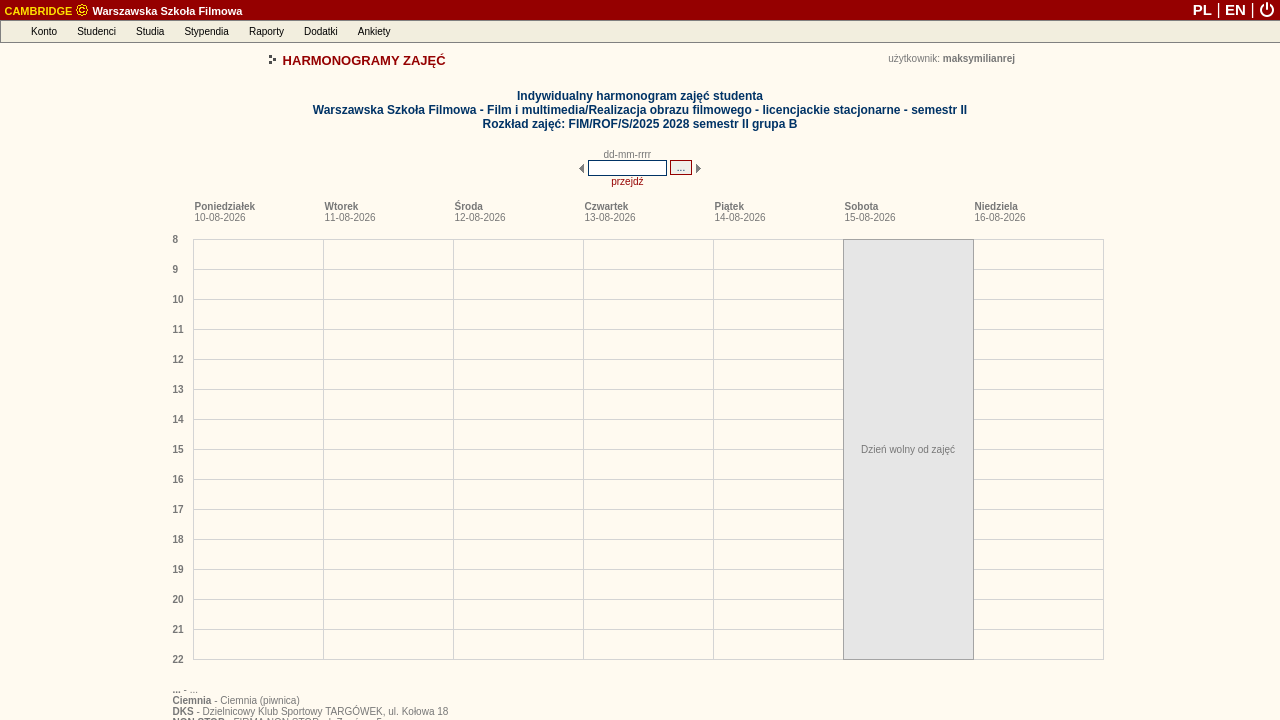
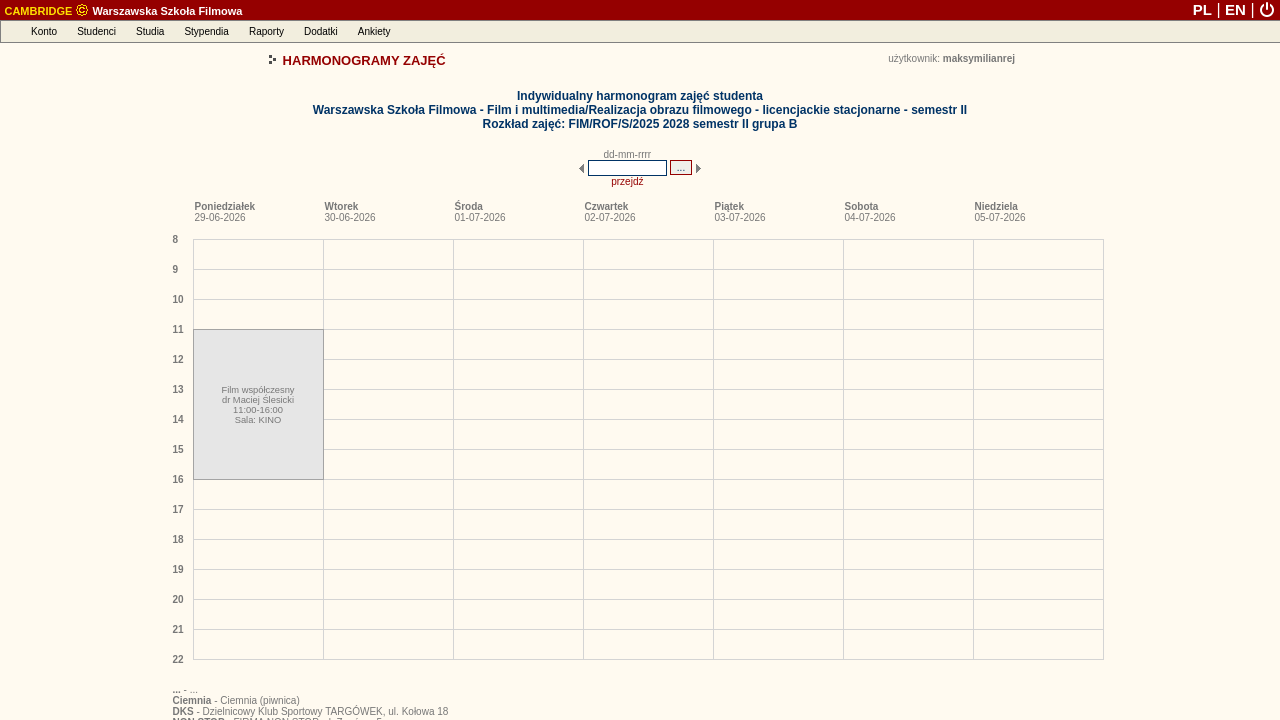
deploy: 20767e2667a06bb4135101eddfaa63d366c8849d

Changed region(s): [[0.6562, 0.3056, 0.7812, 0.9167], [0.125, 0.4583, 0.25, 0.6722]]

diff --git a/debug_harmonogram_page.html b/debug_harmonogram_page.html
@@ -163,8 +163,8 @@
 
 
 
-<link rel="stylesheet" type="text/css" href="/palio/html.run?_Instance=cambridge&amp;_PageID=4&amp;_SessionID=1701403&amp;_SessionKey=523918756&amp;ZoomView=&amp;DisplayMode=&amp;_CheckSum=764109514">
-<script language="javascript" type="text/javascript" src="/palio/html.run?_Instance=cambridge&amp;_PageID=5&amp;_SessionID=1701403&amp;_SessionKey=523918756&amp;_CheckSum=-526602080"></script>
+<link rel="stylesheet" type="text/css" href="/palio/html.run?_Instance=cambridge&amp;_PageID=4&amp;_SessionID=1701550&amp;_SessionKey=1424655760&amp;ZoomView=&amp;DisplayMode=&amp;_CheckSum=941650087">
+<script language="javascript" type="text/javascript" src="/palio/html.run?_Instance=cambridge&amp;_PageID=5&amp;_SessionID=1701550&amp;_SessionKey=1424655760&amp;_CheckSum=751974529"></script>
 
 
 
@@ -354,9 +354,9 @@ CambridgeMenuBar = new jsDOMenuBar("absolute", true)
 
 AccountMenu=new jsDOMenu(200, "", "absolute", false);
 
-AccountMenu.addMenuItem(new menuItem("Zmiana hasła", "", "/palio/html.run?_Instance=cambridge&amp;_PageID=11&amp;_SessionID=1701403&amp;_SessionKey=523918756&amp;_CheckSum=-2123717361"));
+AccountMenu.addMenuItem(new menuItem("Zmiana hasła", "", "/palio/html.run?_Instance=cambridge&amp;_PageID=11&amp;_SessionID=1701550&amp;_SessionKey=1424655760&amp;_CheckSum=-1513958926"));
 
-  AccountMenu.addMenuItem(new menuItem("Komunikator", "", "/palio/html.run?_Instance=cambridge&amp;_PageID=180&amp;_SessionID=1701403&amp;_SessionKey=523918756&amp;_CheckSum=-487115820"));
+  AccountMenu.addMenuItem(new menuItem("Komunikator", "", "/palio/html.run?_Instance=cambridge&amp;_PageID=180&amp;_SessionID=1701550&amp;_SessionKey=1424655760&amp;_CheckSum=1976048589"));
 
 
 
@@ -369,7 +369,7 @@ AccountMenu.addMenuItem(new menuItem("Yammer", "", "https://www.yammer.com/onlin
 
 AccountMenu.addMenuItem(new menuItem("-"));
 
-AccountMenu.addMenuItem(new menuItem("Wylogowanie", "", "https://student.szkolafilmowa.pl/palio/html.run?_Instance=cambridge&amp;_PageID=10012&amp;_Action=Logout&amp;_SessionID=1701403&amp;_SessionKey=523918756"));
+AccountMenu.addMenuItem(new menuItem("Wylogowanie", "", "https://student.szkolafilmowa.pl/palio/html.run?_Instance=cambridge&amp;_PageID=10012&amp;_Action=Logout&amp;_SessionID=1701550&amp;_SessionKey=1424655760"));
 
 CambridgeMenuBar.addMenuBarItem(new menuBarItem("Konto", AccountMenu));
 
@@ -382,12 +382,12 @@ StudentsMenu=new jsDOMenu(320, "", "absolute", false);
 
 
 
-StudentsMenu.addMenuItem(new menuItem("Moje dane", "", "/palio/html.run?_Instance=cambridge&amp;_PageID=185&amp;_SessionID=1701403&amp;_SessionKey=523918756&amp;_CheckSum=-1629789991"));
+StudentsMenu.addMenuItem(new menuItem("Moje dane", "", "/palio/html.run?_Instance=cambridge&amp;_PageID=185&amp;_SessionID=1701550&amp;_SessionKey=1424655760&amp;_CheckSum=912887656"));
 
 
 
 
-StudentsMenu.addMenuItem(new menuItem("Moje indeksy", "", "/palio/html.run?_Instance=cambridge&amp;_PageID=186&amp;_SessionID=1701403&amp;_SessionKey=523918756&amp;_CheckSum=-999331366"));
+StudentsMenu.addMenuItem(new menuItem("Moje indeksy", "", "/palio/html.run?_Instance=cambridge&amp;_PageID=186&amp;_SessionID=1701550&amp;_SessionKey=1424655760&amp;_CheckSum=-1017731449"));
 
 
 
@@ -426,7 +426,7 @@ StudiesMenu=new jsDOMenu(250, "", "absolute", false);
 
 
 
-StudiesMenu.addMenuItem(new menuItem("Moje plany studiów", "", "/palio/html.run?_Instance=cambridge&amp;_PageID=258&amp;_SessionID=1701403&amp;_SessionKey=523918756&amp;_CheckSum=2038825792"));
+StudiesMenu.addMenuItem(new menuItem("Moje plany studiów", "", "/palio/html.run?_Instance=cambridge&amp;_PageID=258&amp;_SessionID=1701550&amp;_SessionKey=1424655760&amp;_CheckSum=-1324140063"));
 
 
 
@@ -434,13 +434,13 @@ StudiesMenu.addMenuItem(new menuItem("Moje plany studiów", "", "/palio/html.run
 
 
 
-StudiesMenu.addMenuItem(new menuItem("Harmonogramy zajęć", "", "/palio/html.run?_Instance=cambridge&amp;_PageID=95&amp;_SessionID=1701403&amp;_SessionKey=523918756&amp;_CheckSum=2133033483"));
+StudiesMenu.addMenuItem(new menuItem("Harmonogramy zajęć", "", "/palio/html.run?_Instance=cambridge&amp;_PageID=95&amp;_SessionID=1701550&amp;_SessionKey=1424655760&amp;_CheckSum=1596298358"));
 
-StudiesMenu.addMenuItem(new menuItem("Harmonogramy moich zajęć", "", "/palio/html.run?_Instance=cambridge&amp;_PageID=191&amp;_SessionID=1701403&amp;_SessionKey=523918756&amp;_CheckSum=-1787276300"));
+StudiesMenu.addMenuItem(new menuItem("Harmonogramy moich zajęć", "", "/palio/html.run?_Instance=cambridge&amp;_PageID=191&amp;_SessionID=1701550&amp;_SessionKey=1424655760&amp;_CheckSum=325779373"));
 
-StudiesMenu.addMenuItem(new menuItem("Harmonogramy innych zajęć", "", "/palio/html.run?_Instance=cambridge&amp;_PageID=248&amp;_SessionID=1701403&amp;_SessionKey=523918756&amp;_CheckSum=-325522399"));
+StudiesMenu.addMenuItem(new menuItem("Harmonogramy innych zajęć", "", "/palio/html.run?_Instance=cambridge&amp;_PageID=248&amp;_SessionID=1701550&amp;_SessionKey=1424655760&amp;_CheckSum=-1604489952"));
 
-StudiesMenu.addMenuItem(new menuItem("Harmonogramy zajętości sal", "", "/palio/html.run?_Instance=cambridge&amp;_PageID=269&amp;_SessionID=1701403&amp;_SessionKey=523918756&amp;_CheckSum=738665312"));
+StudiesMenu.addMenuItem(new menuItem("Harmonogramy zajętości sal", "", "/palio/html.run?_Instance=cambridge&amp;_PageID=269&amp;_SessionID=1701550&amp;_SessionKey=1424655760&amp;_CheckSum=1320558017"));
 
 
 
@@ -470,9 +470,9 @@ CambridgeMenuBar.addMenuBarItem(new menuBarItem("Studia", StudiesMenu));
 ScholarshipsMenu=new jsDOMenu(230, "", "absolute", false);
 
 
-ScholarshipsMenu.addMenuItem(new menuItem("Moje stypendia", "", "/palio/html.run?_Instance=cambridge&amp;_PageID=187&amp;_SessionID=1701403&amp;_SessionKey=523918756&amp;_CheckSum=-368872741"));
+ScholarshipsMenu.addMenuItem(new menuItem("Moje stypendia", "", "/palio/html.run?_Instance=cambridge&amp;_PageID=187&amp;_SessionID=1701550&amp;_SessionKey=1424655760&amp;_CheckSum=1346616742"));
 
-ScholarshipsMenu.addMenuItem(new menuItem("Mój numer rachunku", "", "/palio/html.run?_Instance=cambridge&amp;_PageID=380&amp;_SessionID=1701403&amp;_SessionKey=523918756&amp;_CheckSum=73583958"));
+ScholarshipsMenu.addMenuItem(new menuItem("Mój numer rachunku", "", "/palio/html.run?_Instance=cambridge&amp;_PageID=380&amp;_SessionID=1701550&amp;_SessionKey=1424655760&amp;_CheckSum=-2117094773"));
 
 
 
@@ -482,9 +482,9 @@ ScholarshipsMenu.addMenuItem(new menuItem("Mój numer rachunku", "", "/palio/htm
 ScholarshipsMenu.addMenuItem(new menuItem("-"));
 
 
-ScholarshipsMenu.addMenuItem(new menuItem("Fundusze stypendialne", "", "/palio/html.run?_Instance=cambridge&amp;_PageID=54&amp;_SessionID=1701403&amp;_SessionKey=523918756&amp;_CheckSum=635116686"));
+ScholarshipsMenu.addMenuItem(new menuItem("Fundusze stypendialne", "", "/palio/html.run?_Instance=cambridge&amp;_PageID=54&amp;_SessionID=1701550&amp;_SessionKey=1424655760&amp;_CheckSum=-1889449389"));
 
-ScholarshipsMenu.addMenuItem(new menuItem("Rodzaje stypendiów", "", "/palio/html.run?_Instance=cambridge&amp;_PageID=55&amp;_SessionID=1701403&amp;_SessionKey=523918756&amp;_CheckSum=1265575311"));
+ScholarshipsMenu.addMenuItem(new menuItem("Rodzaje stypendiów", "", "/palio/html.run?_Instance=cambridge&amp;_PageID=55&amp;_SessionID=1701550&amp;_SessionKey=1424655760&amp;_CheckSum=474898802"));
 
 
 
@@ -495,7 +495,7 @@ CambridgeMenuBar.addMenuBarItem(new menuBarItem("Stypendia", ScholarshipsMenu));
 ReportsMenu=new jsDOMenu(200, "", "absolute", false);
 
 
-ReportsMenu.addMenuItem(new menuItem("Generowanie raportów", "", "/palio/html.run?_Instance=cambridge&amp;_PageID=68&amp;_SessionID=1701403&amp;_SessionKey=523918756&amp;_CheckSum=1226332081"));
+ReportsMenu.addMenuItem(new menuItem("Generowanie raportów", "", "/palio/html.run?_Instance=cambridge&amp;_PageID=68&amp;_SessionID=1701550&amp;_SessionKey=1424655760&amp;_CheckSum=-741641328"));
 
 
 
@@ -505,7 +505,7 @@ CambridgeMenuBar.addMenuBarItem(new menuBarItem("Raporty", ReportsMenu));
 
 AdditionalsMenu=new jsDOMenu(200, "", "absolute", false);
 
-AdditionalsMenu.addMenuItem(new menuItem("Forum internetowe", "", "/palio/html.run?_Instance=cambridge&amp;_PageID=8001&amp;_SessionID=1701403&amp;_SessionKey=523918756&amp;_CheckSum=-1568600472"));
+AdditionalsMenu.addMenuItem(new menuItem("Forum internetowe", "", "/palio/html.run?_Instance=cambridge&amp;_PageID=8001&amp;_SessionID=1701550&amp;_SessionKey=1424655760&amp;_CheckSum=-1485204551"));
 
 
 
@@ -539,7 +539,7 @@ PollsMenu=new jsDOMenu(225, "", "absolute", false);
 
 
 
-PollsMenu.addMenuItem(new menuItem("Wypełnianie ankiet", "", "/palio/html.run?_Instance=cambridge&amp;_PageID=227&amp;_SessionID=1701403&amp;_SessionKey=523918756&amp;_CheckSum=-1389710110"));
+PollsMenu.addMenuItem(new menuItem("Wypełnianie ankiet", "", "/palio/html.run?_Instance=cambridge&amp;_PageID=227&amp;_SessionID=1701550&amp;_SessionKey=1424655760&amp;_CheckSum=-234570625"));
 
 
 CambridgeMenuBar.addMenuBarItem(new menuBarItem("Ankiety", PollsMenu));
@@ -576,7 +576,7 @@ CambridgeMenuBar.moveTo(0,20);
 <table width="100%" border="0" cellspacing="0" cellpadding="0" align="center">
 <tbody><tr class="top_belt">
 
-<td align="left" height="20"><b>&nbsp;<a class="belt" href="/palio/html.run?_Instance=cambridge&amp;_PageID=6&amp;_SessionID=1701403&amp;_SessionKey=523918756&amp;_CheckSum=103856545"><span class="belt_application">CAMBRIDGE</span> <img src="/palio/html.media?_Instance=cambridge&amp;_Option=Palio&amp;_ID=51&amp;_CheckSum=684598873" width="14" height="14" border="0" style="position:relative;top:-2px;vertical-align:bottom"> Warszawska Szkoła Filmowa</a></b></td>
+<td align="left" height="20"><b>&nbsp;<a class="belt" href="/palio/html.run?_Instance=cambridge&amp;_PageID=6&amp;_SessionID=1701550&amp;_SessionKey=1424655760&amp;_CheckSum=-1178644576"><span class="belt_application">CAMBRIDGE</span> <img src="/palio/html.media?_Instance=cambridge&amp;_Option=Palio&amp;_ID=51&amp;_CheckSum=684598873" width="14" height="14" border="0" style="position:relative;top:-2px;vertical-align:bottom"> Warszawska Szkoła Filmowa</a></b></td>
 <td align="right">
 
 
@@ -587,13 +587,13 @@ CambridgeMenuBar.moveTo(0,20);
 
 
 
-<a href="/palio/html.run?_Instance=cambridge&amp;_PageID=6&amp;_SessionID=1701403&amp;_SessionKey=523918756&amp;SetLanguage=pl&amp;_CheckSum=922992345" class="belt" style="font-size:15px;line-height:18px;text-decoration:none" title="polski"><b>PL</b></a>
+<a href="/palio/html.run?_Instance=cambridge&amp;_PageID=6&amp;_SessionID=1701550&amp;_SessionKey=1424655760&amp;SetLanguage=pl&amp;_CheckSum=2024772218" class="belt" style="font-size:15px;line-height:18px;text-decoration:none" title="polski"><b>PL</b></a>
 <span class="belt" style="font-size:16px">|</span>
-<a href="/palio/html.run?_Instance=cambridge&amp;_PageID=6&amp;_SessionID=1701403&amp;_SessionKey=523918756&amp;SetLanguage=en&amp;_CheckSum=-1479191668" class="belt" style="font-size:15px;line-height:18px;text-decoration:none" title="english"><b>EN</b></a>
+<a href="/palio/html.run?_Instance=cambridge&amp;_PageID=6&amp;_SessionID=1701550&amp;_SessionKey=1424655760&amp;SetLanguage=en&amp;_CheckSum=-377411795" class="belt" style="font-size:15px;line-height:18px;text-decoration:none" title="english"><b>EN</b></a>
 <span class="belt" style="font-size:16px">|</span>
 
 
-<img src="/palio/html.media?_Instance=cambridge&amp;_Option=Palio&amp;_ID=94&amp;_CheckSum=-1316787974" style="cursor:pointer;vertical-align:bottom;margin-bottom:2px;margin-right:5px" alt="Wyloguj" title="Wyloguj" onclick="if(confirm('Czy na pewno chcesz się wylogować?'))window.location='https://student.szkolafilmowa.pl/palio/html.run?_Instance=cambridge&amp;_PageID=10012&amp;_Action=Logout&amp;_SessionID=1701403&amp;_SessionKey=523918756'">
+<img src="/palio/html.media?_Instance=cambridge&amp;_Option=Palio&amp;_ID=94&amp;_CheckSum=-1316787974" style="cursor:pointer;vertical-align:bottom;margin-bottom:2px;margin-right:5px" alt="Wyloguj" title="Wyloguj" onclick="if(confirm('Czy na pewno chcesz się wylogować?'))window.location='https://student.szkolafilmowa.pl/palio/html.run?_Instance=cambridge&amp;_PageID=10012&amp;_Action=Logout&amp;_SessionID=1701550&amp;_SessionKey=1424655760'">
 </td>
 
 </tr>
@@ -2315,16 +2315,16 @@ document.schedule_scroll_form.submit();
 }
 function goForward()
 {
-document.schedule_scroll_form._firstDayOfWeek.value = '17-08-2026';
+document.schedule_scroll_form._firstDayOfWeek.value = '06-07-2026';
 document.schedule_scroll_form.submit();
 }
 function goBackward()
 {
-document.schedule_scroll_form._firstDayOfWeek.value = '08-08-2026';
+document.schedule_scroll_form._firstDayOfWeek.value = '27-06-2026';
 document.schedule_scroll_form.submit();
 }
 </script>
-<form method="post" name="schedule_scroll_form" id="schedule_scroll_form" action="/palio/html.run?_Instance=cambridge&amp;_PageID=191&amp;_SessionID=1701403&amp;_SessionKey=523918756&amp;_RowID=6932&amp;_RowIDType=I&amp;_CheckSum=1471771509" onsubmit="return checkFrm_schedule_scroll_form(this)">
+<form method="post" name="schedule_scroll_form" id="schedule_scroll_form" action="/palio/html.run?_Instance=cambridge&amp;_PageID=191&amp;_SessionID=1701550&amp;_SessionKey=1424655760&amp;_RowID=6932&amp;_RowIDType=I&amp;_CheckSum=1140646620" onsubmit="return checkFrm_schedule_scroll_form(this)">
 <div style="display:none;"><input type="hidden" name="_formSubmitted" value="yes"></div>
 <input type="hidden" name="_firstDayOfWeek">
 <table cellspacing="0" cellpadding="0" border="0" align="center">
@@ -3194,42 +3194,42 @@ return true;
 
 
 
-
-
-
-
-
-
-
-
-
-
-
-
-
-
-
-
-
-
-
-
-
-
-
-
-
-
-
-
-
-
-
-
-
-
-
   
+
+
+
+
+
+
+
+
+
+
+
+
+
+
+
+
+
+
+
+
+
+
+
+
+
+
+
+
+
+
+
+
+
+
+
 
 
 
@@ -3688,7 +3688,7 @@ tipDivElement.style.visibility="hidden"
 <tbody><tr><td class="font">
 <b class="font">Poniedziałek</b><br>
 
-<span class="font">10-08-2026</span>
+<span class="font">29-06-2026</span>
 </td></tr>
 </tbody></table>
 </div>
@@ -3703,7 +3703,7 @@ tipDivElement.style.visibility="hidden"
 <tbody><tr><td class="font">
 <b class="font">Wtorek</b><br>
 
-<span class="font">11-08-2026</span>
+<span class="font">30-06-2026</span>
 </td></tr>
 </tbody></table>
 </div>
@@ -3718,7 +3718,7 @@ tipDivElement.style.visibility="hidden"
 <tbody><tr><td class="font">
 <b class="font">Środa</b><br>
 
-<span class="font">12-08-2026</span>
+<span class="font">01-07-2026</span>
 </td></tr>
 </tbody></table>
 </div>
@@ -3733,7 +3733,7 @@ tipDivElement.style.visibility="hidden"
 <tbody><tr><td class="font">
 <b class="font">Czwartek</b><br>
 
-<span class="font">13-08-2026</span>
+<span class="font">02-07-2026</span>
 </td></tr>
 </tbody></table>
 </div>
@@ -3748,7 +3748,7 @@ tipDivElement.style.visibility="hidden"
 <tbody><tr><td class="font">
 <b class="font">Piątek</b><br>
 
-<span class="font">14-08-2026</span>
+<span class="font">03-07-2026</span>
 </td></tr>
 </tbody></table>
 </div>
@@ -3763,7 +3763,7 @@ tipDivElement.style.visibility="hidden"
 <tbody><tr><td class="font">
 <b class="font">Sobota</b><br>
 
-<span class="font">15-08-2026</span>
+<span class="font">04-07-2026</span>
 </td></tr>
 </tbody></table>
 </div>
@@ -3778,10 +3778,16 @@ tipDivElement.style.visibility="hidden"
 <tbody><tr><td class="font">
 <b class="font">Niedziela</b><br>
 
-<span class="font">16-08-2026</span>
+<span class="font">05-07-2026</span>
 </td></tr>
 </tbody></table>
 </div>
+
+
+
+
+
+
 
 
 
@@ -3803,16 +3809,16 @@ tipDivElement.style.visibility="hidden"
 
 <div style="
 position:absolute;
-top:0;
-left:670;
+top:90;
+left:20;
 width:129;
-height:419.00;
+height:149.00;
 layer-background-color:#E6E6E6;
 background-color:#E6E6E6;
 border:1px solid #A4A4A4;
-z-index:0;">
+z-index:0;" onmouseover="showtip(&quot;<table><tr><td nowrap class=font>Film współczesny<br>dr Maciej Ślesicki<br>11:00-16:00<br>Sala: KINO<br>Plan: FIM/ROF/S/2025 2028<br>semestr II</td></tr></table>&quot;);" onmouseout="hidetip();">
 <table cellspacing="0" cellpadding="0" align="center" width="129">
-<tbody><tr><td width="129" align="center" class="font" valign="middle" height="419.00">Dzień wolny od zajęć</td></tr>
+<tbody><tr><td width="129" align="center" class="font" valign="middle" height="149.00"><span style="font-size:7pt;">Film współczesny<br>dr Maciej Ślesicki<br>11:00-16:00<br>Sala: KINO</span></td></tr>
 </tbody></table>
 </div>
 
@@ -3841,8 +3847,8 @@ z-index:0;">
 <td align="right">
 <table cellspacing="0" cellpadding="2" border="0">
 <tbody><tr>
-<td valign="middle"><a class="link" href="/palio/html.run?_Instance=cambridge&amp;_PageID=96&amp;_SessionID=1701403&amp;_SessionKey=523918756&amp;_RowID=6932&amp;_RowIDType=I&amp;_firstDayOfWeek=10-08-2026&amp;_CheckSum=2058218044" target="_blank">drukuj</a></td>
-<td valign="middle"><a class="link" href="/palio/html.run?_Instance=cambridge&amp;_PageID=96&amp;_SessionID=1701403&amp;_SessionKey=523918756&amp;_RowID=6932&amp;_RowIDType=I&amp;_firstDayOfWeek=10-08-2026&amp;_CheckSum=2058218044" target="_blank"><img src="/palio/html.media?_Instance=cambridge&amp;_Option=Palio&amp;_ID=26&amp;_CheckSum=1936112049" awidth="16" height="14" alt="drukuj" title="drukuj" border="0"></a></td>
+<td valign="middle"><a class="link" href="/palio/html.run?_Instance=cambridge&amp;_PageID=96&amp;_SessionID=1701550&amp;_SessionKey=1424655760&amp;_RowID=6932&amp;_RowIDType=I&amp;_firstDayOfWeek=29-06-2026&amp;_CheckSum=1447354523" target="_blank">drukuj</a></td>
+<td valign="middle"><a class="link" href="/palio/html.run?_Instance=cambridge&amp;_PageID=96&amp;_SessionID=1701550&amp;_SessionKey=1424655760&amp;_RowID=6932&amp;_RowIDType=I&amp;_firstDayOfWeek=29-06-2026&amp;_CheckSum=1447354523" target="_blank"><img src="/palio/html.media?_Instance=cambridge&amp;_Option=Palio&amp;_ID=26&amp;_CheckSum=1936112049" awidth="16" height="14" alt="drukuj" title="drukuj" border="0"></a></td>
 </tr>
 </tbody></table>
 </td>
@@ -3874,7 +3880,7 @@ z-index:0;">
 
 
 
-<input type="button" name="jump_action" value="Powrót do listy harmonogramów zajęć" class="button" onclick="window.location='/palio/html.run?_Instance=cambridge&amp;_PageID=191&amp;_SessionID=1701403&amp;_SessionKey=523918756&amp;_CheckSum=-1787276300'">
+<input type="button" name="jump_action" value="Powrót do listy harmonogramów zajęć" class="button" onclick="window.location='/palio/html.run?_Instance=cambridge&amp;_PageID=191&amp;_SessionID=1701550&amp;_SessionKey=1424655760&amp;_CheckSum=325779373'">
 
 
 
@@ -3899,7 +3905,7 @@ z-index:0;">
 grayscaleImagesIE10Plus();
 </script>
 
-<p align="right" class="font"><i style="color:#aaaaaa">Czas generowania strony 129 ms</i></p>
+<p align="right" class="font"><i style="color:#aaaaaa">Czas generowania strony 118 ms</i></p>
 
 
 </body></html>
